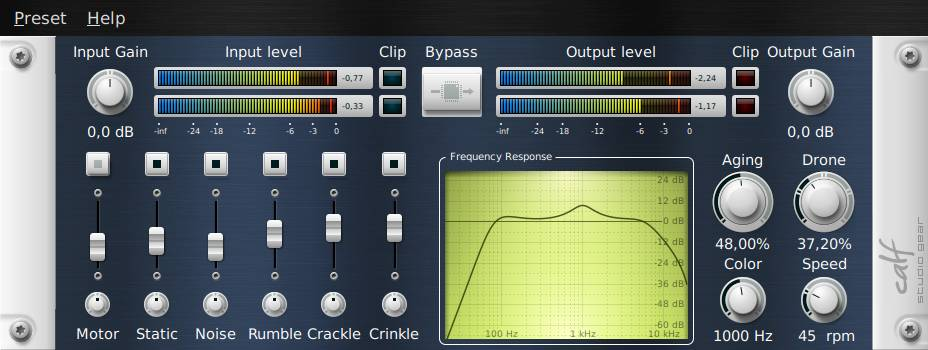
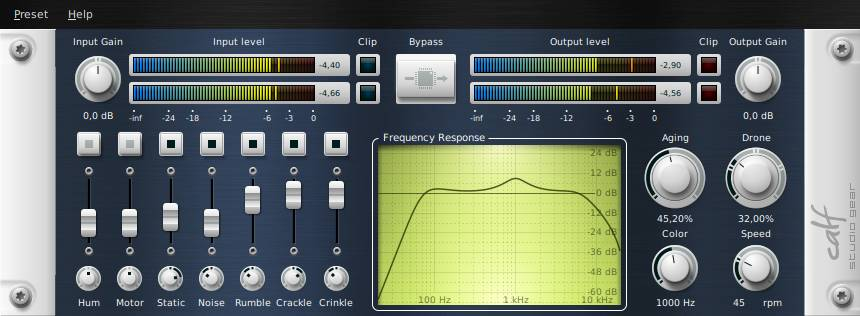
Vinyl: missing the hum

diff --git a/src/metadata.cpp b/src/metadata.cpp
@@ -1579,6 +1579,8 @@ CALF_PORT_PROPS(vinyl) = {
     { 0,        0,      1, 0,  PF_FLOAT | PF_SCALE_PERC | PF_CTL_KNOB | PF_UNIT_COEF , NULL, "aging", "Aging" },
     { 1000,   600,   1800, 0,  PF_INT | PF_SCALE_LOG | PF_CTL_KNOB | PF_UNIT_HZ , NULL, "freq", "Frequency" },
     
+    { 0.0078125, 0.000015849, 1, 0, PF_FLOAT | PF_SCALE_GAIN | PF_CTL_KNOB | PF_UNIT_DB, NULL, "gain0", "Vol 0" },
+    VINYL_SYNTH(0)
     { 0.0078125, 0.000015849, 1, 0, PF_FLOAT | PF_SCALE_GAIN | PF_CTL_KNOB | PF_UNIT_DB, NULL, "gain1", "Vol 1" },
     VINYL_SYNTH(1)
     { 0.015625, 0.000015849, 1, 0, PF_FLOAT | PF_SCALE_GAIN | PF_CTL_KNOB | PF_UNIT_DB, NULL, "gain2", "Vol 2" },

diff --git a/src/calf/metadata.h b/src/calf/metadata.h
@@ -803,6 +803,7 @@ struct vinyl_metadata: public plugin_metadata<vinyl_metadata>
            param_gain3, param_pitch3, param_active3,
            param_gain4, param_pitch4, param_active4,
            param_gain5, param_pitch5, param_active5,
+           param_gain6, param_pitch6, param_active6,
            param_count };
     PLUGIN_NAME_ID_LABEL("vinyl", "vinyl", "Vinyl")
 };

diff --git a/src/modules_dist.cpp b/src/modules_dist.cpp
@@ -777,6 +777,7 @@ void vinyl_audio_module::set_sample_rate(uint32_t sr)
     fluid_settings_setnum(settings, "synth.sample-rate", srate);
     
     std::string* paths = new std::string[_synths] {
+        PKGLIBDIR "sf2/Vinyl - Hum.sf2",
         PKGLIBDIR "sf2/Vinyl - Motor.sf2",
         PKGLIBDIR "sf2/Vinyl - Static.sf2",
         PKGLIBDIR "sf2/Vinyl - Noise.sf2",

diff --git a/src/calf/modules_dist.h b/src/calf/modules_dist.h
@@ -126,7 +126,7 @@ class vinyl_audio_module:
     
     const static int channels = 2;
     const static int _filters = 5;
-    const static int _synths = 6;
+    const static int _synths = 7;
     const static int _synthsp = 3;
     const float freq_min = 600.f;
     const float freq_max = 1800.f;
